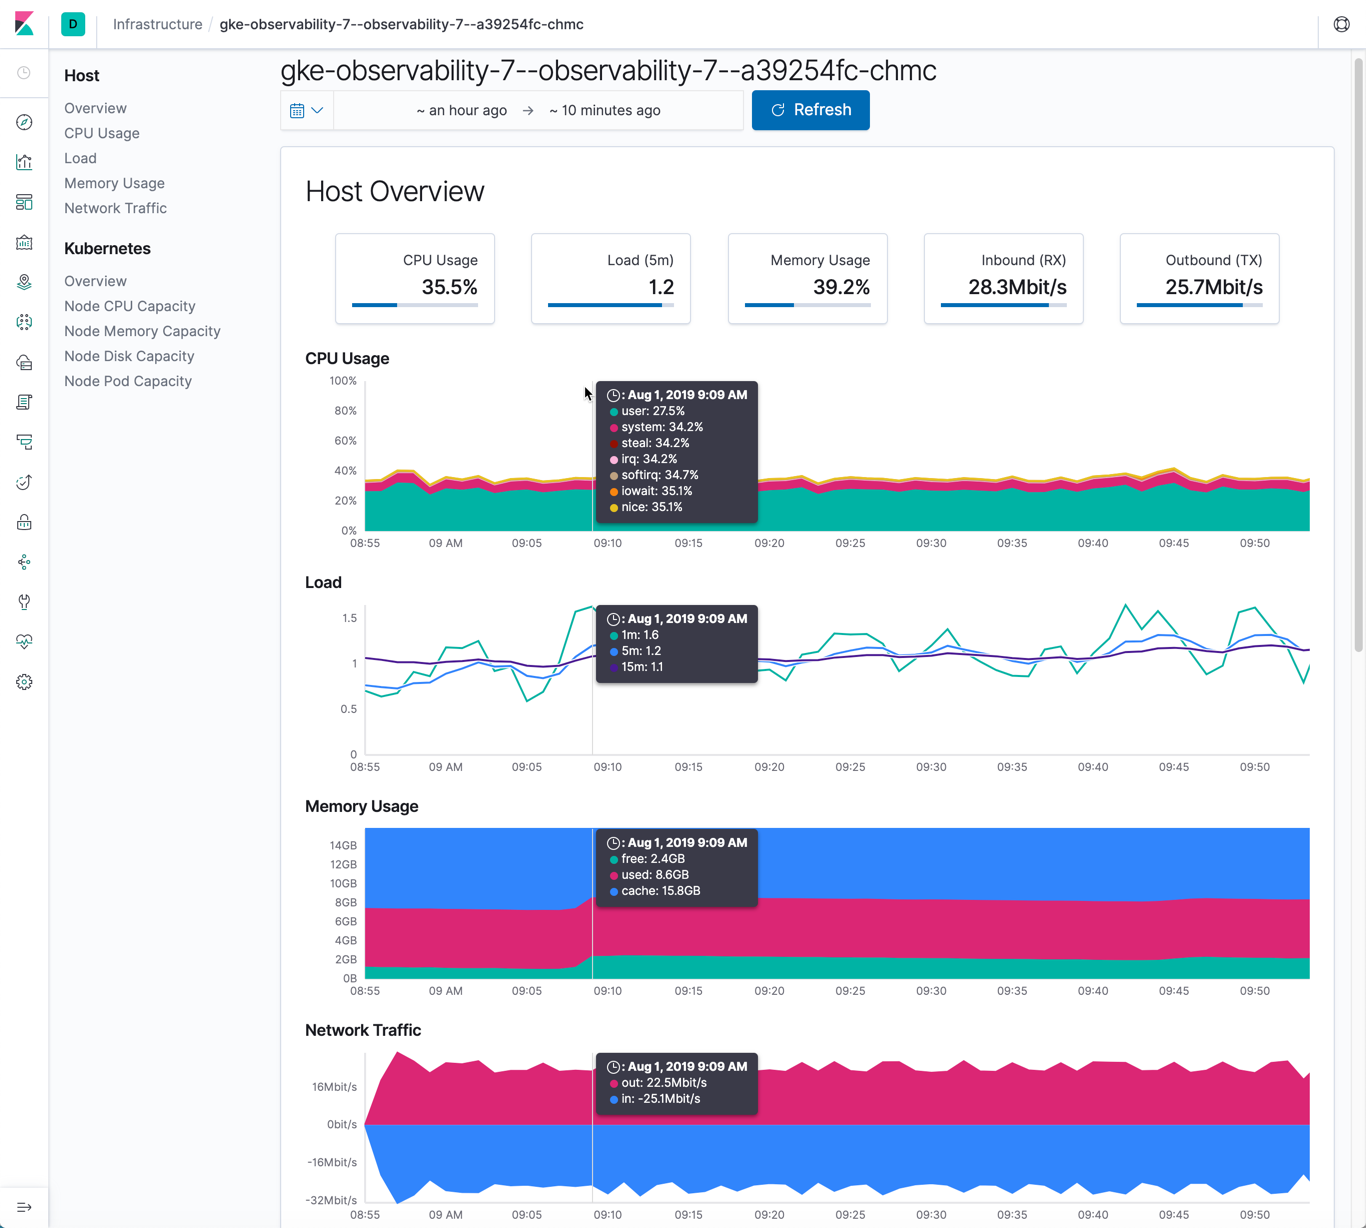
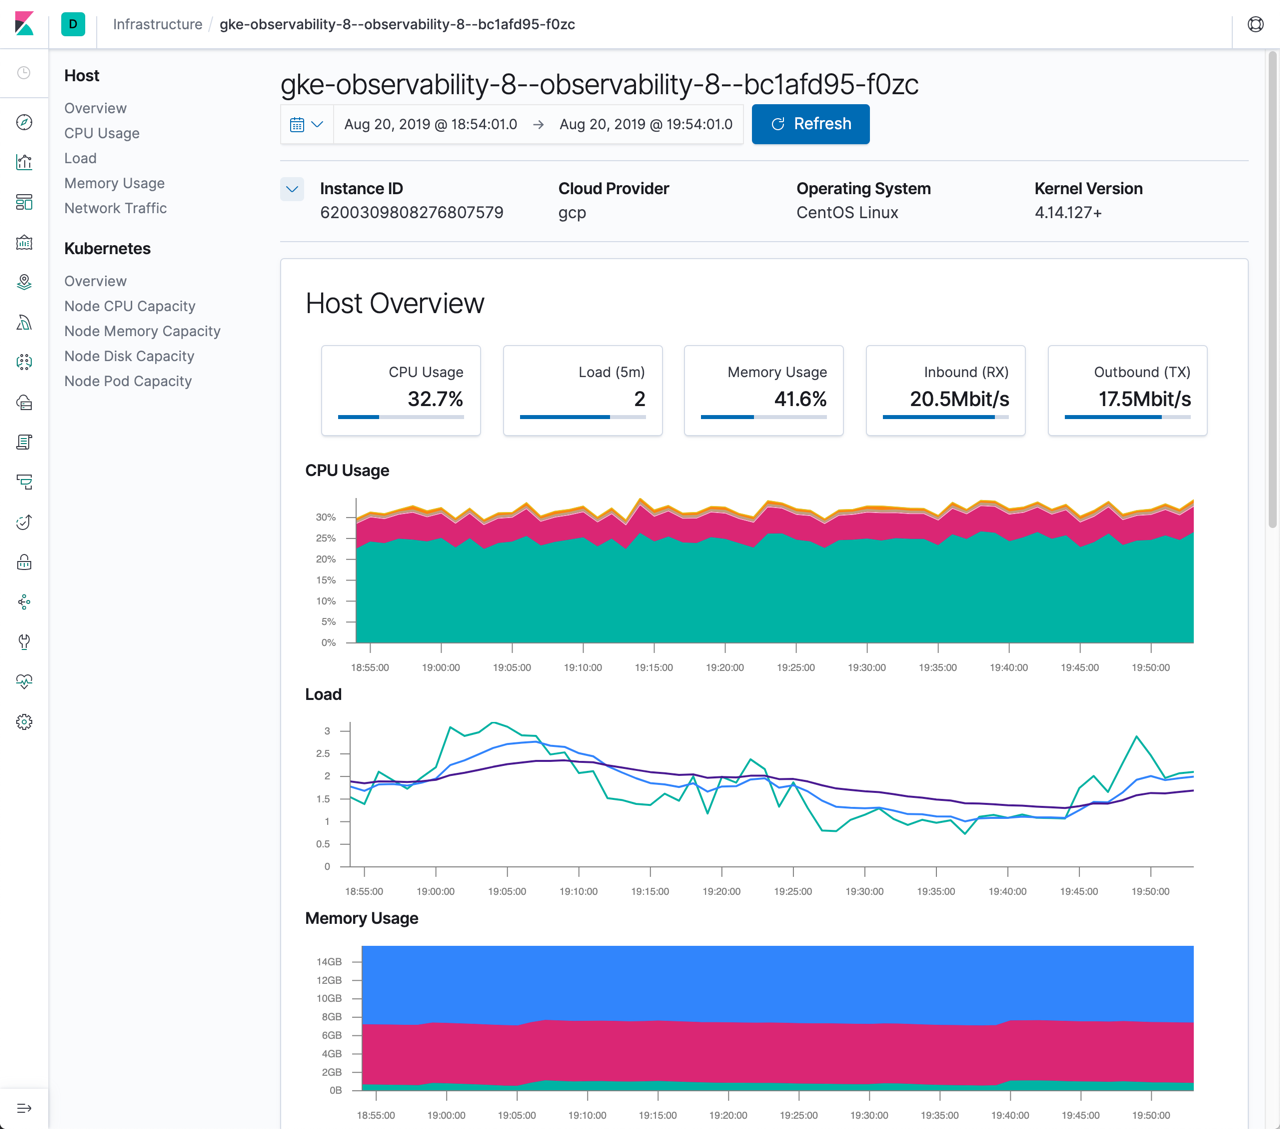
[Infra UI] Display non-metric details on Node Detail page (#43551)
* [Infra UI] Display non-metric details on Node Detail page

- Closes #42689
- Adds NodeDetails component

* clean things up a bit

* Change hook order

* Start of docs changes

* Making expand button more consitent

* Update docs for this minor change

* Changing handleClick to toggleIsOpen

* Optimizing fields slice

diff --git a/x-pack/legacy/plugins/infra/public/components/metrics/node_details.tsx b/x-pack/legacy/plugins/infra/public/components/metrics/node_details.tsx
@@ -1,0 +1,156 @@
+/*
+ * Copyright Elasticsearch B.V. and/or licensed to Elasticsearch B.V. under one
+ * or more contributor license agreements. Licensed under the Elastic License;
+ * you may not use this file except in compliance with the Elastic License.
+ */
+
+import React, { useState, useCallback, useMemo } from 'react';
+import { EuiButtonIcon, EuiFlexGrid, EuiFlexItem, EuiTitle, EuiText } from '@elastic/eui';
+import { i18n } from '@kbn/i18n';
+import { get } from 'lodash';
+import { InfraMetadata } from '../../../common/http_api';
+import euiStyled from '../../../../../common/eui_styled_components';
+
+interface Props {
+  metadata?: InfraMetadata | null;
+}
+
+interface FieldDef {
+  field: string;
+  label: string;
+  isBoolean?: boolean;
+}
+
+const FIELDS = [
+  {
+    field: 'cloud.instance.id',
+    label: i18n.translate('xpack.infra.nodeDetails.labels.instanceId', {
+      defaultMessage: 'Instance ID',
+    }),
+  },
+  {
+    field: 'cloud.provider',
+    label: i18n.translate('xpack.infra.nodeDetails.labels.cloudProvider', {
+      defaultMessage: 'Cloud Provider',
+    }),
+  },
+  {
+    field: 'host.os.name',
+    label: i18n.translate('xpack.infra.nodeDetails.labels.operatinSystem', {
+      defaultMessage: 'Operating System',
+    }),
+  },
+  {
+    field: 'host.os.kernel',
+    label: i18n.translate('xpack.infra.nodeDetails.labels.kernelVersion', {
+      defaultMessage: 'Kernel Version',
+    }),
+  },
+  {
+    field: 'host.hostname',
+    label: i18n.translate('xpack.infra.nodeDetails.labels.hostname', {
+      defaultMessage: 'Hostname',
+    }),
+  },
+  {
+    field: 'host.containerized',
+    label: i18n.translate('xpack.infra.nodeDetails.labels.containerized', {
+      defaultMessage: 'Containerized',
+    }),
+    isBoolean: true,
+  },
+  {
+    field: 'cloud.project.id',
+    label: i18n.translate('xpack.infra.nodeDetails.labels.projectId', {
+      defaultMessage: 'Project ID',
+    }),
+  },
+  {
+    field: 'cloud.availability_zone',
+    label: i18n.translate('xpack.infra.nodeDetails.labels.availabilityZone', {
+      defaultMessage: 'Availability Zone',
+    }),
+  },
+  {
+    field: 'cloud.machine.type',
+    label: i18n.translate('xpack.infra.nodeDetails.labels.machineType', {
+      defaultMessage: 'Machine Type',
+    }),
+  },
+  {
+    field: 'cloud.instance.name',
+    label: i18n.translate('xpack.infra.nodeDetails.labels.instanceName', {
+      defaultMessage: 'Instance Name',
+    }),
+  },
+] as FieldDef[];
+
+const getLabelForField = ({ field }: FieldDef) => {
+  const fieldDef = FIELDS.find(f => f.field === field);
+  if (!fieldDef) return field;
+  return fieldDef.label;
+};
+
+const getValueForField = (metadata: InfraMetadata, { field, isBoolean }: FieldDef) => {
+  if (isBoolean) {
+    return get(metadata.info, field, false)
+      ? i18n.translate('xpack.infra.nodeDetails.yes', { defaultMessage: 'Yes' })
+      : i18n.translate('xpack.infra.nodeDetails.no', { defaultMessage: 'No' });
+  }
+  const value = get(metadata.info, field, '--');
+  return value;
+};
+
+export const NodeDetails = ({ metadata }: Props) => {
+  const [isOpen, setControlState] = useState<boolean>(false);
+
+  const toggleIsOpen = useCallback(
+    () => (isOpen ? setControlState(false) : setControlState(true)),
+    [isOpen]
+  );
+
+  const fields = useMemo(() => (isOpen ? FIELDS : FIELDS.slice(0, 4)), [isOpen]);
+
+  if (!metadata) {
+    return null;
+  }
+
+  return (
+    <NodeDetailsContainer>
+      <Controls>
+        <EuiButtonIcon
+          iconType={isOpen ? 'arrowUp' : 'arrowDown'}
+          onClick={toggleIsOpen}
+          aria-label={i18n.translate('xpack.infra.nodeDetails.labels.showMoreDetails', {
+            defaultMessage: 'Show more details',
+          })}
+        />
+      </Controls>
+      <EuiFlexGrid columns={4} style={{ flexGrow: 1 }}>
+        {fields.map(field => (
+          <EuiFlexItem key={field.field} style={{ minWidth: 0 }}>
+            <EuiTitle size="xs">
+              <h4>{getLabelForField(field)}</h4>
+            </EuiTitle>
+            <EuiText>{getValueForField(metadata, field)}</EuiText>
+          </EuiFlexItem>
+        ))}
+      </EuiFlexGrid>
+    </NodeDetailsContainer>
+  );
+};
+
+const NodeDetailsContainer = euiStyled.div`
+border-top: ${props => props.theme.eui.euiBorderWidthThin} solid ${props =>
+  props.theme.eui.euiBorderColor};
+border-bottom: ${props => props.theme.eui.euiBorderWidthThin} solid ${props =>
+  props.theme.eui.euiBorderColor};
+padding: ${props => props.theme.eui.paddingSizes.m} 0;
+margin-bottom: ${props => props.theme.eui.paddingSizes.m};
+display: flex;
+`;
+
+const Controls = euiStyled.div`
+flex-grow: 0;
+margin-right: ${props => props.theme.eui.paddingSizes.m};
+`;

diff --git a/x-pack/legacy/plugins/infra/public/pages/metrics/index.tsx b/x-pack/legacy/plugins/infra/public/pages/metrics/index.tsx
@@ -41,6 +41,7 @@ import { withMetricPageProviders } from './page_providers';
 import { useMetadata } from '../../containers/metadata/use_metadata';
 import { Source } from '../../containers/source';
 import { InfraLoadingPanel } from '../../components/loading';
+import { NodeDetails } from '../../components/metrics/node_details';
 
 const DetailPageContent = euiStyled(PageContent)`
   overflow: auto;
@@ -87,7 +88,7 @@ export const MetricDetail = withMetricPageProviders(
         }
         const { sourceId } = useContext(Source.Context);
         const layouts = layoutCreator(theme);
-        const { name, filteredLayouts, loading: metadataLoading, cloudId } = useMetadata(
+        const { name, filteredLayouts, loading: metadataLoading, cloudId, metadata } = useMetadata(
           nodeId,
           nodeType,
           layouts,
@@ -230,7 +231,7 @@ export const MetricDetail = withMetricPageProviders(
                                         </MetricsTitleTimeRangeContainer>
                                       </EuiPageHeaderSection>
                                     </EuiPageHeader>
-
+                                    <NodeDetails metadata={metadata} />
                                     <EuiPageContentWithRelative>
                                       <Metrics
                                         label={name}

diff --git a/x-pack/legacy/plugins/infra/public/containers/metadata/use_metadata.ts b/x-pack/legacy/plugins/infra/public/containers/metadata/use_metadata.ts
@@ -50,6 +50,7 @@ export function useMetadata(
     filteredLayouts: (response && getFilteredLayouts(layouts, response.features)) || [],
     error: (error && error.message) || null,
     loading,
+    metadata: response,
     cloudId:
       (response &&
         response.info &&
